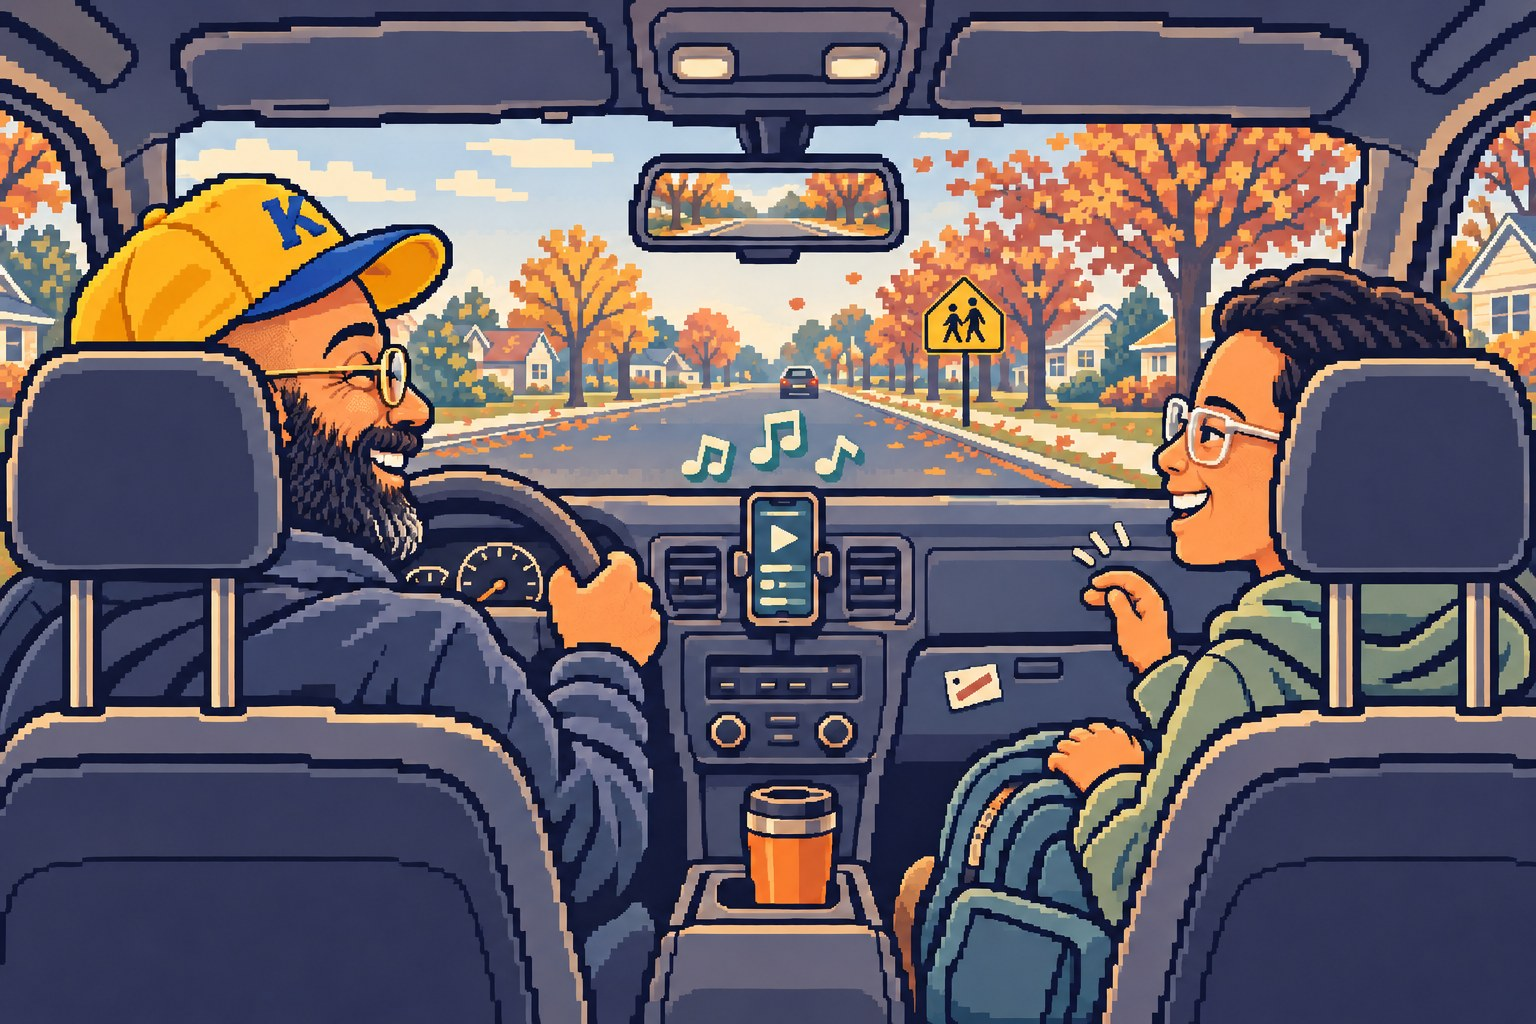
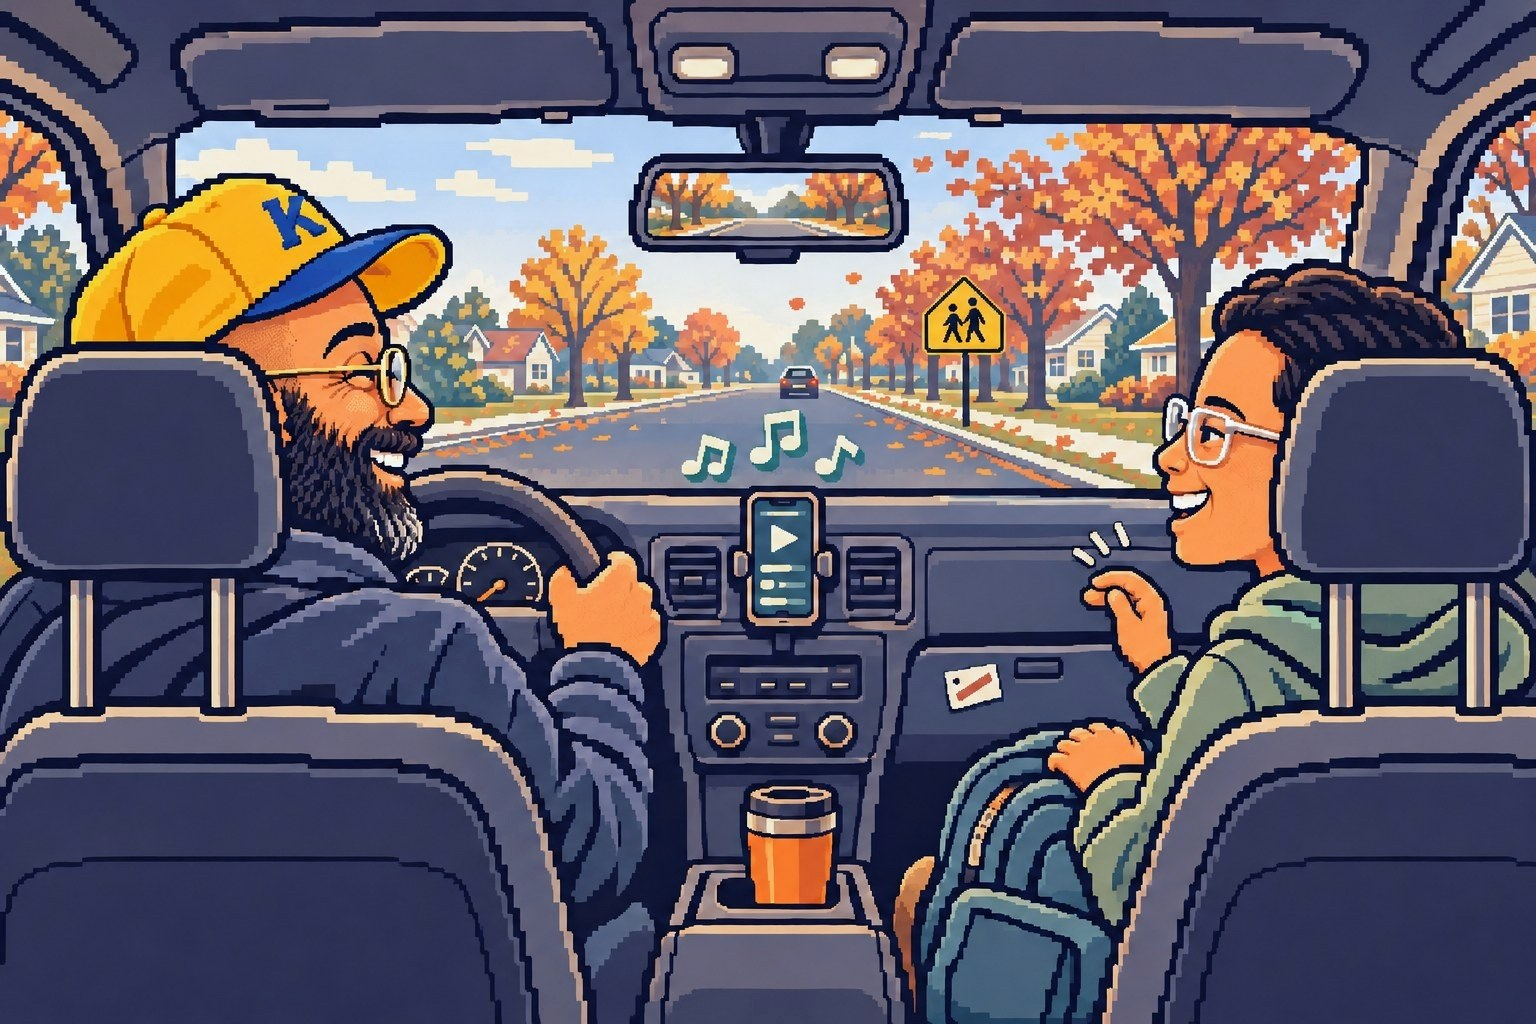
Devlog: Darvin's notes on Memo 13 (Rami's headers, slimmer memo pages, cooler cover); Rami's to-do list
Claude-Session: https://claude.ai/code/session_01Lig4WMWRCVLc1Xd5Xfcw9r

diff --git a/docs/roadmap.html b/docs/roadmap.html
@@ -84,19 +84,23 @@ code{font-size:.9em;background:var(--line);padding:1px 5px}
   <section class="clock" aria-label="Progress through the phases">
     <div class="bar" id="bar"></div>
     <div class="ages"><span>Sprint</span><span>Fun Pass</span><span>Next up</span><span>Share</span><span>V2+</span><span>Platforms</span><span>Later</span></div>
-    <p class="now-line">You are here: <b>V. 2.1 · the office map is in · stages next</b> <span id="count"></span></p>
+    <p class="now-line">You are here: <b>V. 2.10 · polish, cut scenes and the music memo · stages next</b> <span id="count"></span></p>
   </section>
 
   <section class="next">
     <h2>This week</h2>
     <ol>
-      <li><strong>Shipped Nov 4: V. 2.0, "Version Two."</strong> Loadout art, Full Life bosses and Father Time, Sprint mode, accounts, the GOTCHA! catch, a cleaner devlog, and Memo 10 published to the devlog and Discord.</li>
-      <li><strong>Done: the office map (V. 2.1).</strong> Find the YOU ARE HERE sign by reception; the corner map fills in as you explore. Tap it or press M for the big view. Real art coming from ChatGPT.</li>
-      <li><strong>Next 2: New stages.</strong> St. Deductible Hospital and the home neighborhood, picked from the title screen and unlocked by achievements.</li>
-      <li><strong>Next 3: Phone apps.</strong> iOS and Android with a Capacitor wrapper, before consoles.</li>
-      <li>Memo 11 (Discord) is drafted from your voice answers. Read it at devlog/?drafts=1.</li>
-      <li>Waiting on you: post the V2 socials, play a Sprint run, the student lounge photo, Abdel's music.</li>
+      <li><strong>Shipped Nov 7: V. 2.10.22.</strong> Close Calls leave afterimages, a quieter first minute, the live 11:58 PM title scene, the Supply Closet, and run stats that record your build.</li>
+      <li><strong>Cut scene test:</strong> the Performance Review intro now has 7 extra beats you can switch on and off, and a letterboxed phone view.</li>
+      <li><strong>Memo 13 (music)</strong> is drafted. Darvin's feedback is next: headers, page clutter, and a real photo for the cover.</li>
+      <li><strong>Next:</strong> new stages (St. Deductible Hospital, the home neighborhood) and the Part-Time Job stage.</li>
     </ol>
+  </section>
+
+  <section class="next todo">
+    <h2>Your to-do list</h2>
+    <p class="meta" style="margin-top:0">Things only you can do. Claude adds to this list and checks things off as they get done. Your checkmarks save in this browser.</p>
+    <div id="todo"></div>
   </section>
 
   <section class="phases" id="phases" aria-label="Phases"></section>
@@ -123,7 +127,7 @@ code{font-size:.9em;background:var(--line);padding:1px 5px}
     </div>
   </section>
 
-  <p class="meta">Weekly check-in: Sundays at 6:54 pm ET. Play it: ramidaud.github.io/midlife-survivors. Source of truth: <code>docs/ROADMAP.md</code> in your Midlife Survivors folder; Claude updates this page after each objective. Your own checkmarks here are saved in this browser only. Last updated Nov 4, 2026 (V. 2.0, game plan).</p>
+  <p class="meta">Weekly check-in: Sundays at 6:54 pm ET. Play it: midlifesurvivors.com. Source of truth: <code>docs/ROADMAP.md</code> in your Midlife Survivors folder; Claude updates this page after each objective. Your own checkmarks here are saved in this browser only. Last updated Nov 7, 2026 (V. 2.10.22, your to-do list).</p>
 </div>
 
 <script>
@@ -145,6 +149,27 @@ const PHASES = [
     ["Diablo and 3D camera views",0],["Social and Resort stages",0]]}
 ];
 const CURRENT = 4;
+// Rami's to-do list (Nov 7). Mirrors "Rami's to-do list" in docs/ROADMAP.md. [label, done]
+const TODO = [
+  ["Play and react", [
+    ["Play V. 2.10.22: do the Close Call afterimages read clearly?",0],
+    ["Try one Ben-style run: stay close to the crowd, check your level by 55",0],
+    ["Cut scene test page: switch off the extra beats you don't want",0]]],
+  ["Decide", [
+    ["Code ping sound: A knock-knock, B desk bell, or C bubble pop",0],
+    ["Cut scene in the game: other heroes skip it, or 9 new poses? Options switch?",0],
+    ["Memo 13: Darvin's notes (headers, page clutter, AI color cast)",0]]],
+  ["Do", [
+    ["Add the build column in Supabase (or tell Claude to, and approve)",0],
+    ["Shoot a real school-run photo for Memo 13's cover",0],
+    ["Final read on Memo 13, then publish",0],
+    ["Part-Time Job stage: jot down the Apple lore and inside jokes",0],
+    ["Send Kevin the merch zips",0]]]
+];
+function renderTodo(){
+  const box=document.getElementById("todo"); let k=0;
+  box.innerHTML = TODO.map(([group,items])=>`<details open><summary><span class="ph-name">${group}</span></summary><ul class="tasks">${items.map(t=>{const id="todo"+(k++); const c = id in saved ? saved[id] : !!t[1]; return `<li><label><input type="checkbox" id="${id}" ${c?"checked":""}><span>${t[0]}</span></label></li>`;}).join("")}</ul></details>`).join("");
+}
 let saved = {};
 try { saved = JSON.parse(localStorage.getItem("ms-checks-v3") || "{}"); } catch(e) {}
 function save(){ try { localStorage.setItem("ms-checks-v3", JSON.stringify(saved)); } catch(e) {} }
@@ -176,4 +201,6 @@ root.addEventListener("change", e=>{
   }
 });
 render();
+renderTodo();
+document.getElementById("todo").addEventListener("change", e=>{ if(e.target.matches("input[type=checkbox]")){ saved[e.target.id]=e.target.checked; save(); } });
 </script>

diff --git a/devlog/posts.js b/devlog/posts.js
@@ -13,7 +13,7 @@ window.DEVLOG_POSTS = [
     "leadNote": "**Made with ChatGPT** (image generation), from a prompt Claude wrote and I directed: the morning school run, me and Abe in the car with the music on, drawn in the game's pixel style. [Read the full prompt](art/prompts/13-key-art-chatgpt.txt).",
     "leadAlt": "Pixel art from the back seat: a bald, bearded dad in a yellow Kent State cap drives his son to school down a leafy fall street, both laughing as music notes float off the phone on the dash.",
     "blurb": "Why music matters to me, the school run with Abe, the songs that are the game, and an open ask for help with the soundtrack.",
-    "teaser": "The school run, the unofficial soundtrack, and an honest ask about the game's music.",
+    "teaser": "Driving Abe to school, the songs that are the game, and an ask for help with its music.",
     "changes": [
       "Close Calls leave afterimages and explain themselves the first time",
       "A quieter first minute for new players",

diff --git a/devlog/styles.css b/devlog/styles.css
@@ -921,3 +921,8 @@ article.post .prose .dropcap {
 .song-embed iframe { display: block; width: 100%; height: 175px; }
 .video-embed { position: relative; max-width: 660px; aspect-ratio: 16 / 9; margin: 4px 0 26px; border-radius: 10px; overflow: hidden; background: #000; }
 .video-embed iframe { position: absolute; inset: 0; width: 100%; height: 100%; border: 0; }
+
+/* Memo pages keep only "What changed" and "Next up" (Nov 7, Darvin's note: too much text competing
+   with the memo). The memo list, employee file, poll, builds, leaderboard and playlist live on the
+   devlog home page. Remove the "slim" class in index.html to bring them back. */
+.post-side.slim > .side-card:not(.post-facts):not(.follow) { display: none; }

diff --git a/devlog/index.html b/devlog/index.html
@@ -117,7 +117,7 @@
     <div class="read-progress ms-bar" id="read-progress" aria-hidden="true"><span class="ms-fill"></span><span class="rp-done">✓ MEMO FINISHED</span></div>
     <div class="wrap post-grid">
       <main id="post-main"></main>
-      <aside class="post-side" aria-label="The whole story, build stats and leaderboard">
+      <aside class="post-side slim" aria-label="What changed in this memo">
         <section class="side-card post-facts" id="post-facts" hidden aria-label="What changed in this memo"></section>
         <section class="side-card" id="post-series" aria-label="All memos"></section>
         <section class="side-card your-file" aria-label="Your stats"></section>

diff --git a/devlog/posts/13-side-characters.md b/devlog/posts/13-side-characters.md
@@ -4,7 +4,7 @@ I think that's the whole game, honestly. Midlife Survivors is about steering you
 
 <div class="song-embed"><iframe title="My Madness by David Byrne and Ghost Train Orchestra on Apple Music" loading="lazy" allow="autoplay *; encrypted-media *;" sandbox="allow-forms allow-popups allow-same-origin allow-scripts allow-storage-access-by-user-activation allow-top-navigation-by-user-activation" height="175" style="width:100%;max-width:660px;overflow:hidden;border:0;border-radius:10px;background:transparent" src="https://embed.music.apple.com/us/album/my-madness/6804805262?i=6804805735&amp;theme=dark"></iframe></div>
 
-## The school run
+## Every morning, and again on the way home
 
 Every morning I drive my son to school and we listen to music together. We talk. It's one of my favorite parts of the day, and then we do it all again on the way home.
 
@@ -14,7 +14,7 @@ I know a lot of people will find this relatable. Music has been the soundtrack t
 
 So when I said last time that music is one of the most important side characters in this game, I meant it's been one of the most important side characters in my life, and I want the game to feel that way too.
 
-## The unofficial soundtrack
+## Some of these songs are the game
 
 Which brings me to the playlist. There's a [Midlife Survivors playlist on Apple Music](https://music.apple.com/us/playlist/midlife-survivors/pl.u-D8mPuala4BW), and some of these songs *are* the game to me.
 
@@ -50,7 +50,7 @@ If you want the origin story, **Once Around the Block** by Badly Drawn Boy is th
 
 <div class="song-embed"><iframe title="Once Around the Block by Badly Drawn Boy on Apple Music" loading="lazy" allow="autoplay *; encrypted-media *;" sandbox="allow-forms allow-popups allow-same-origin allow-scripts allow-storage-access-by-user-activation allow-top-navigation-by-user-activation" height="175" style="width:100%;max-width:660px;overflow:hidden;border:0;border-radius:10px;background:transparent" src="https://embed.music.apple.com/us/album/once-around-the-block/1540689690?i=1540690085&amp;theme=dark"></iframe></div>
 
-## The honest part
+## I know what I like. I'm just not sure how to get there.
 
 The game has music in it now, and I like where it's at. Ben told me he liked the original tracks better. I'm not sure I've got it dialed in yet. The truth is I know what I like, I'm just not sure how to get there. I want it slightly cacophonous but still joyful and energetic, something that sits under all the sound effects without fighting them.
 

diff --git a/docs/ROADMAP.md b/docs/ROADMAP.md
@@ -4,7 +4,33 @@ Pace: about 3-5 hours a week, 45-90 minute sessions. Every session ends with som
 Weekly check-in: Sundays, evening (automatic).
 
 **Current phase:** Next up: healing, interns and the Lounge (feature freeze lifted Nov 3)
-**Last updated:** 2026-11-04 (Discord posts)
+**Last updated:** 2026-11-07 (Rami's to-do list, V. 2.10.22)
+
+---
+
+## Rami's to-do list (kept current by Claude; updated Nov 7)
+Things only Rami can do. Claude adds items as they come up and checks them off when they're done.
+
+**Play and react**
+- [ ] Play V. 2.10.22: do the Close Call afterimages read clearly?
+- [ ] Try one Ben-style run: stay close to the crowd, check your level by 55
+- [ ] Cut scene test page: switch off the extra beats you don't want, tell Claude which stay
+
+**Decide**
+- [ ] Code ping sound: A knock-knock, B desk bell, or C bubble pop (or none of them)
+- [ ] Cut scene in the game: other heroes skip it, or order 9 new poses; add a "Cut scenes" switch in Options?
+- [x] Memo 13: Darvin's notes (headers now in your words, memo pages slimmed, cover color cooled)
+
+**Do**
+- [ ] Add the `build` column in Supabase (one SQL line, or tell Claude "add the column" and approve the prompt)
+- [ ] Optional: a real photo of the school run for a future memo (Darvin's note; you kept the AI cover for 13)
+- [ ] Final read and OK on Memo 13, then publish
+- [ ] Part-Time Job stage: jot down the Apple lore and inside jokes you want in it
+- [ ] Send Kevin the merch zips
+
+**Waiting on others**
+- ChatGPT: redraw the Performance Review frame with the loose shoe (handoff after the beats are picked)
+- Abe: soundtrack noodling, no deadline
 
 ---
 

diff --git a/docs/PROGRESS_LOG.md b/docs/PROGRESS_LOG.md
@@ -1737,3 +1737,9 @@ Saved the registered 11:58 PM title plate, eighteen animation frames and contact
 - Memo 13 cover is in: ChatGPT's school-run scene (seen from the back seat, left-hand drive this time).
 - Each song in Memo 13 now has Apple's own mini player under its paragraph (album art plus a preview), 8 in all. Nothing copied into the repo. Nick Shoulders' song title corrected to "Appreciatecha".
 - Memo 13: the Paradise music video (YouTube, privacy-friendly embed) now sits under the Paradise player.
+
+## Nov 7, 2026 (evening): Darvin's notes on Memo 13
+- Darvin liked the reading bar, the song players, the citations and the people; disliked "The X" headers, the AI sepia cast and too much text around the memo.
+- Headers now use Rami's own lines. Memo pages keep only "What changed", "Next up" and the follow links; everything else stays on the devlog home page.
+- The cover's yellow haze is cooled by hand. Future ChatGPT art asks for neutral color (docs/handoffs/chatgpt-art-notes.md).
+- New: a "Your to-do list" on the roadmap page and in ROADMAP.md.

diff --git a/docs/handoffs/chatgpt-art-notes.md b/docs/handoffs/chatgpt-art-notes.md
@@ -1,0 +1,4 @@
+
+## Color (Nov 7, Darvin's note on Memo 13)
+- Avoid the warm sepia / golden haze that image models add by default. Ask for **neutral white balance, clean whites, no yellow or sepia grade, no film-look haze**.
+- Claude cooled the Memo 13 cover by hand (highlights cooler, yellow haze trimmed). New art should come in neutral so it doesn't need that.
